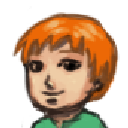
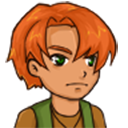
Added in ability to load other character portraits. Added in test portraits + test case

diff --git a/Assets/Scripts/NPC/NPC.cs b/Assets/Scripts/NPC/NPC.cs
@@ -62,7 +62,7 @@ public abstract class NPC : Character {
 			Debug.LogError("No animation data attached to " + name);	
 		}
 		if (charPortrait == null){
-			Debug.LogError("No character portait found for " + name);	
+			Debug.LogError("No initial character portait found for " + name);	
 		}
 		if (player == null){
 			Debug.LogError("No player was found by " + name);	
@@ -177,6 +177,20 @@ public abstract class NPC : Character {
 	
 	public bool IsInteracting(){
 		return (chatingWithPlayer);	
+	}
+	
+	/// <summary>
+	/// Sets the character portrait.
+	/// </summary>
+	/// <param name='emotion'>
+	/// Name of the emotion in resources folder [npcName][emotion]. Send empty string for default/neutral face
+	/// </param>
+	public void SetCharacterPortrait(string emotion){
+		charPortrait = (Texture)Resources.Load(this.name + emotion, typeof(Texture));
+		if(charPortrait == null){
+			Debug.LogWarning("Could not find " + this.name + emotion + " in /Resources");
+			charPortrait = (Texture)Resources.Load(this.name, typeof(Texture));
+		}
 	}
 	#endregion	
 	

diff --git a/assets/scripts/Chat/Conversations/NPCPassiveConvoDictionary.cs b/assets/scripts/Chat/Conversations/NPCPassiveConvoDictionary.cs
@@ -20,8 +20,8 @@ public class NPCPassiveConvoDictionary : ManagerSingleton<NPCPassiveConvoDiction
 		convoDict.Add (StringsNPC.MomYoung, new YoungMotherConvos().GetList());
 		convoDict.Add (StringsNPC.CarpenterYoung, new YoungCarpenterConvos().GetList());
 		convoDict.Add (StringsNPC.CarpenterSonYoung, new YoungCarpenterSonConvos().GetList());
-		convoDict.Add (StringsNPC.FarmerYoung, new YoungFarmerConvos().GetList());
-		convoDict.Add (StringsNPC.FarmerHusbandYoung, new YoungFarmerHusbandConvos().GetList());
+		convoDict.Add (StringsNPC.FarmerMotherYoung, new YoungFarmerConvos().GetList());
+		convoDict.Add (StringsNPC.FarmerFatherYoung, new YoungFarmerHusbandConvos().GetList());
 		convoDict.Add (StringsNPC.LighthouseGirlYoung, new YoungLighthouseGirlConvos().GetList());
 		convoDict.Add (StringsNPC.CastlemanYoung, new YoungCastlemanConvos().GetList());
 		convoDict.Add (StringsNPC.SeaCaptainYoung, new YoungSeaCaptainConvos().GetList());

diff --git a/assets/Scripts/NPC/SpecificNPCs/Carpenter/CarpenterYoung.cs b/assets/Scripts/NPC/SpecificNPCs/Carpenter/CarpenterYoung.cs
@@ -34,8 +34,10 @@ public class CarpenterYoung : NPC {
 	
 		Choice giveToolsChoice;
 		Reaction giveToolsReaction;
-	
+		NPC carpenterRef;
+		
 		public InitialEmotionState(NPC toControl, string currentDialogue) : base(toControl, currentDialogue){
+			carpenterRef = toControl;
 			giveToolsChoice = new Choice("Give Tools.", "Thanks for finding my tools instead of my lazy son.  Honestly he sometimes I think he doesn't care about our great legacy.");
 			giveToolsReaction = new Reaction();
 			giveToolsReaction.AddAction(new NPCCallbackAction(GiveToolsToCarpenter));
@@ -55,6 +57,7 @@ public class CarpenterYoung : NPC {
 		private void GiveToolsToCarpenter(){
 			_allChoiceReactions.Remove(giveToolsChoice);
 			GUIManager.Instance.RefreshInteraction();
+			carpenterRef.SetCharacterPortrait(StringsNPC.Happy);
 			SetDefaultText("Thank you for them tools, you rascal!");
 			
 			//Need to walk away and come back later to check on son
